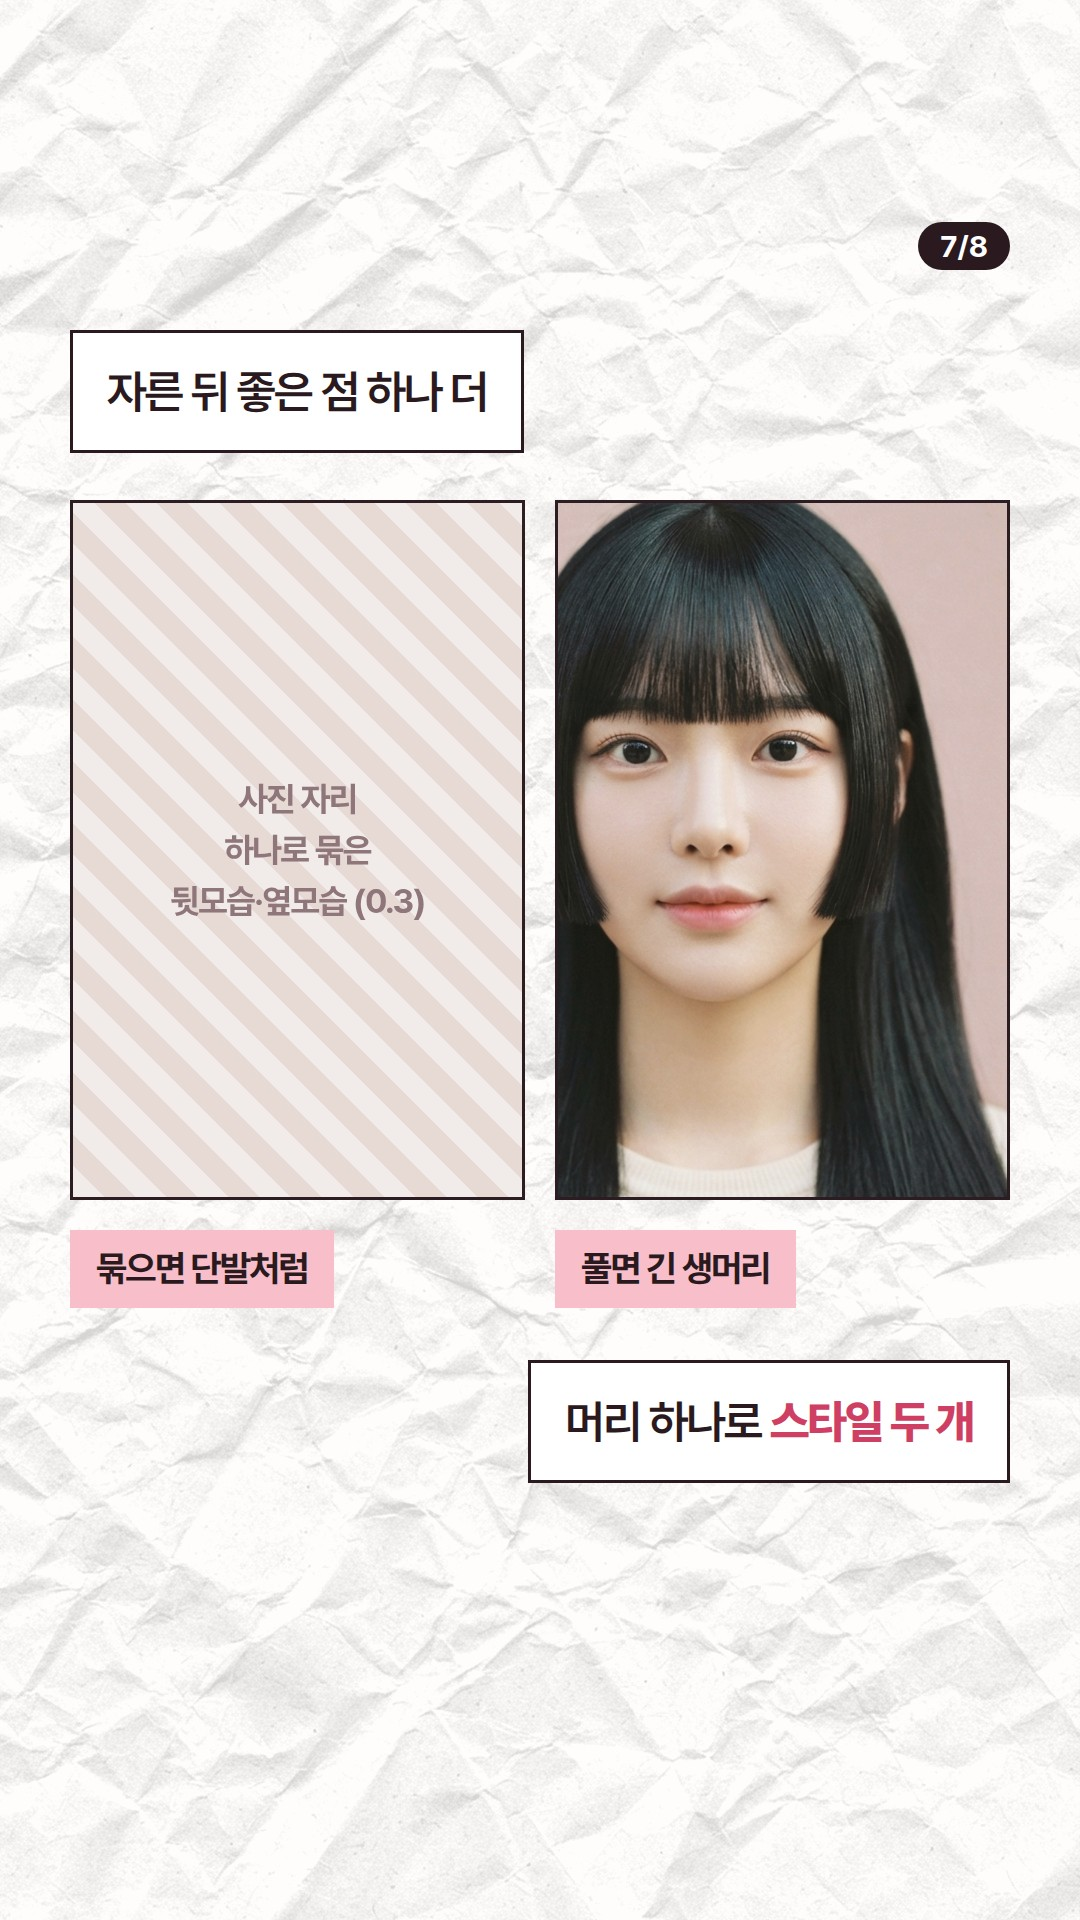
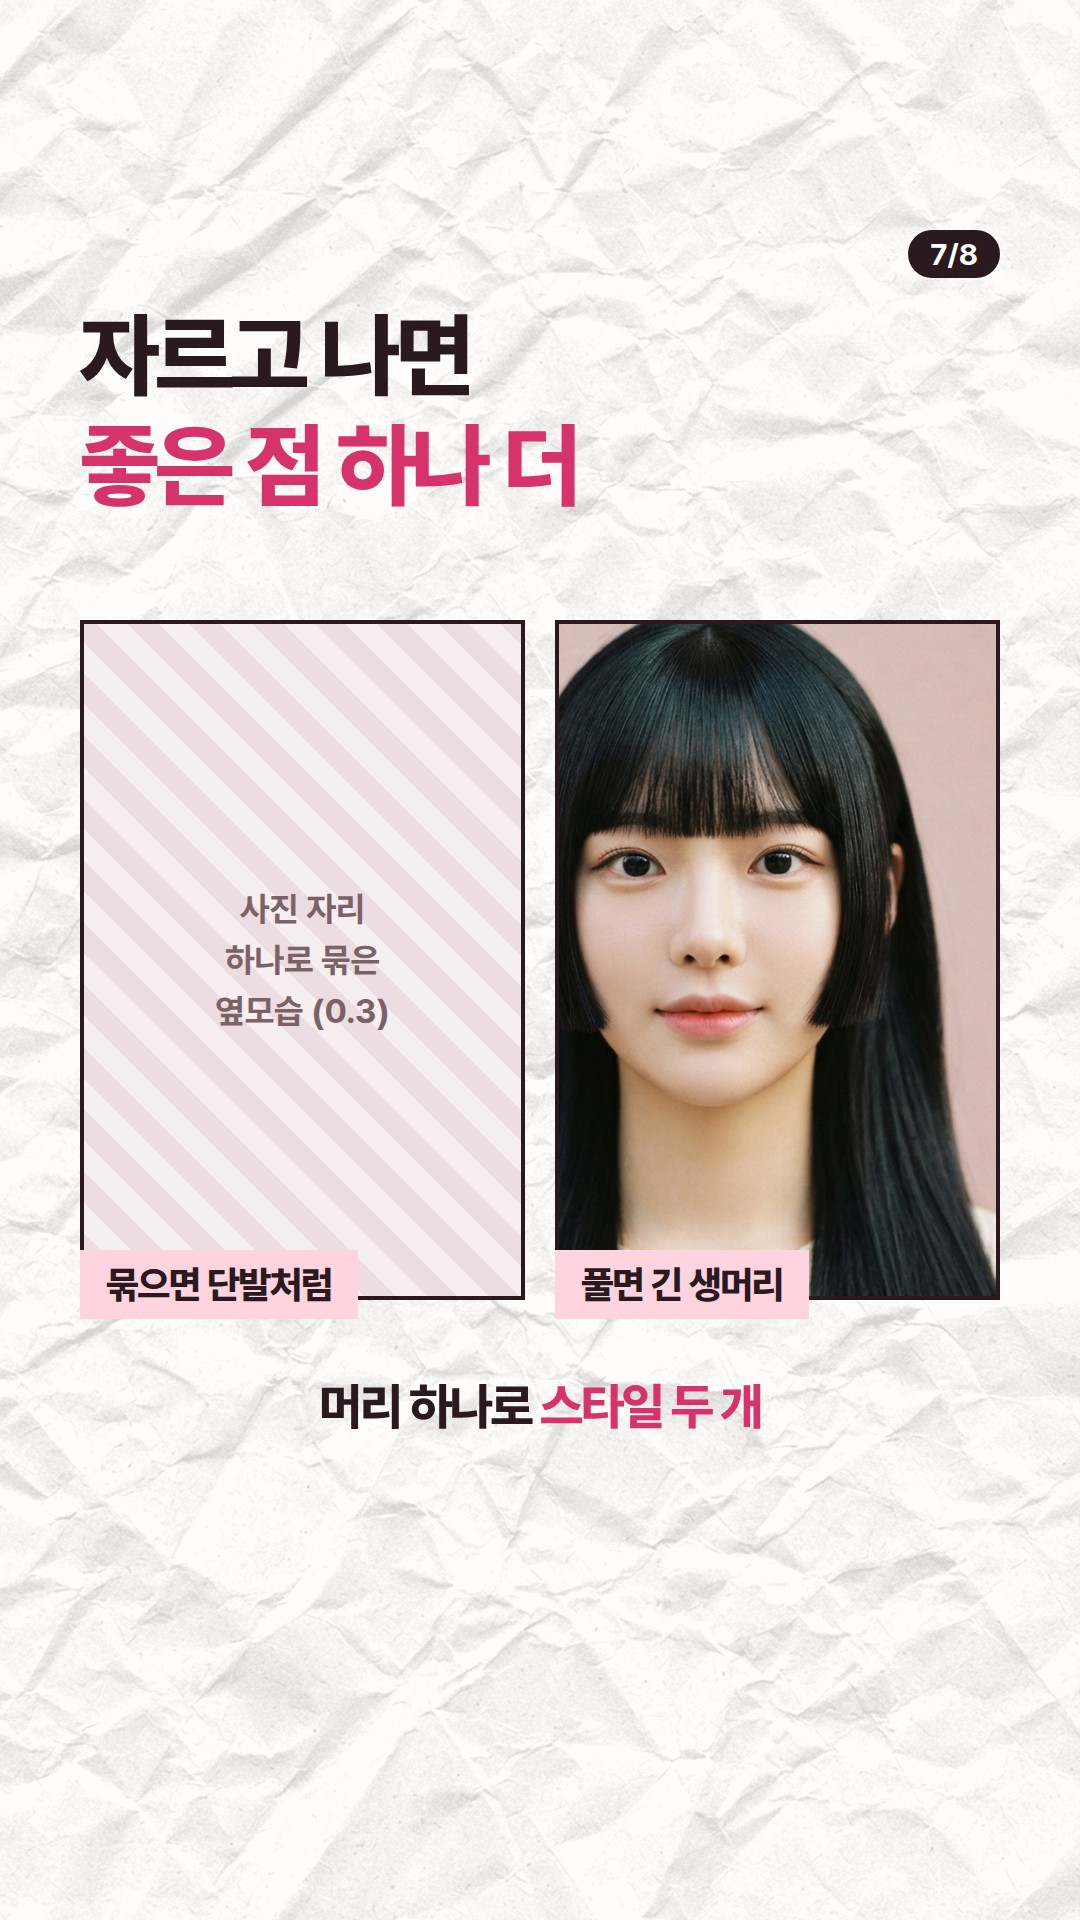
뷰티레터: 종이 스타일 디자인 재정리 — 제목은 박스 없이, 설명만 박스, 고대비 색(흰/플럼·로즈/흰)
Claude-Session: https://claude.ai/code/session_01M29FXMb16fvzM5BCrcufte

Changed region(s): [[0.0611, 0.1562, 0.9472, 0.7812], [0.825, 0.0938, 0.9472, 0.1562]]

diff --git a/design/beauty_news/letters/2026-10-10_am_hime/reel2.html b/design/beauty_news/letters/2026-10-10_am_hime/reel2.html
@@ -17,79 +17,73 @@
 <!-- 2. 정의 -->
 <section class="card pp" data-name="02_what">
   <div class="pg">1/8</div>
-  <div class="wb" style="left:70px; top:330px">아 그전에 먼저!<br/>히메 커트가 뭐냐면</div>
-  <div class="bb" style="left:70px; right:70px; top:560px">
-    <h2>히메 커트 = 3단 구조</h2>
+  <div class="ttl2"><small>아 그전에 먼저!</small>히메 커트가<br/><em>뭐냐면</em></div>
+  <div class="wb" style="left:80px; right:80px; top:660px">
     <ol>
-      <li><i>①</i>눈썹 근처 <em>일자 앞머리</em></li>
-      <li><i>②</i>볼~턱 라인에서 <em>뚝 끊은 옆머리</em></li>
-      <li><i>③</i>나머지는 <em>긴 머리</em> 그대로</li>
+      <li><i>①</i>눈썹 근처 <b>일자 앞머리</b></li>
+      <li><i>②</i>볼~턱에서 <b>뚝 끊은 옆머리</b></li>
+      <li><i>③</i>나머지는 <b>긴 머리</b> 그대로</li>
     </ol>
   </div>
-  <div class="ph todo" style="left:300px; top:1050px; width:480px; height:420px">사진 자리<br/>옆머리 보이는<br/>옆모습 컷 (0.3)</div>
-  <div class="hl" style="left:70px; top:1500px">일본 전통 '공주 머리'에서 유래했어요</div>
+  <div class="ph todo" style="left:80px; right:80px; top:1010px; height:440px">사진 자리 · 옆머리 보이는 옆모습 컷 (0.3)</div>
+  <div class="say" style="top:1490px; font-size:40px">일본 전통 <em>'공주 머리'</em>에서 유래했어요</div>
 </section>
 
 <!-- 3. 왜 지금 -->
 <section class="card pp" data-name="03_why">
   <div class="pg">2/8</div>
-  <div class="wb" style="left:70px; top:360px">근데 왜 갑자기<br/>파리에서 유행이냐면</div>
-  <div class="bb" style="left:70px; right:70px; top:640px">
-    <h2>프랑스 '보그'가<br/>K-팝 대표 헤어로 소개</h2>
-    <p>헝클어진 파리지앵 헤어 다음은<br/><em>반듯한 히메 커트</em>래요</p>
-  </div>
-  <div class="wb" style="right:70px; top:1140px">옆머리가 얼굴 여백을 가려서<br/><b>이목구비가 또렷해 보이거든요</b></div>
-  <div class="note" style="left:70px; top:1440px">*출처: 보그 코리아 (2026.09.17)</div>
+  <div class="ttl2">근데 왜 갑자기<br/><em>파리에서</em> 유행일까?</div>
+  <div class="rb" style="left:80px; right:80px; top:660px"><small>프랑스 '보그'가</small>K-팝 가수들의 <b>대표 헤어</b>로 소개했어요</div>
+  <div class="wb" style="left:80px; right:80px; top:930px">헝클어진 파리지앵 헤어 다음은<br/><b>반듯한 히메 커트</b>래요</div>
+  <div class="say" style="top:1230px">옆머리가 얼굴 여백을 가려서<br/><em>이목구비가 또렷해 보이거든요</em></div>
+  <div class="note" style="top:1470px; text-align:center">*출처: 보그 코리아 (2026.09.17)</div>
 </section>
 
 <!-- 4. 비교 -->
 <section class="card pp" data-name="04_compare">
   <div class="pg">3/8</div>
-  <div class="wb" style="left:70px; top:330px">같은 사람, <b>옆머리만</b> 바꿨어요</div>
-  <div class="ph" style="left:70px; top:500px; width:455px; height:760px; background-image:url(img/reel_before.jpg); background-position:center 30%"></div>
-  <div class="ph" style="left:555px; top:500px; width:455px; height:760px; background-image:url(img/reel_after.jpg); background-position:center 30%"></div>
-  <div class="hl" style="left:70px; top:1290px">옆머리 없음</div>
+  <div class="ttl2">같은 사람,<br/><em>옆머리만</em> 바꿨어요</div>
+  <div class="ph" style="left:80px; top:620px; width:445px; height:720px; background-image:url(img/reel_before.jpg); background-position:center 30%"></div>
+  <div class="ph" style="left:555px; top:620px; width:445px; height:720px; background-image:url(img/reel_after.jpg); background-position:center 30%"></div>
+  <div class="hl" style="left:80px; top:1290px">옆머리 없음</div>
   <div class="hl" style="left:555px; top:1290px">볼~턱에서 싹둑</div>
-  <div class="wb" style="right:70px; top:1400px">얼굴 옆이 정리되면서 <b>갸름해 보여요</b></div>
+  <div class="say" style="top:1410px">얼굴 옆이 정리되면서 <em>갸름해 보여요</em></div>
 </section>
 
 <!-- 5. 어울리는 사람 -->
 <section class="card pp" data-name="05_who">
   <div class="pg">4/8</div>
-  <div class="wb" style="left:70px; top:330px">나한테도 어울릴까?</div>
-  <div class="bb" style="left:70px; right:70px; top:520px">
-    <h2>특히 잘 어울려요</h2>
+  <div class="ttl2">나한테도<br/><em>어울릴까?</em></div>
+  <div class="wb" style="left:80px; right:80px; top:660px">
     <ol>
-      <li><i>✓</i><em>달걀형 · 긴 얼굴</em><br/>옆머리가 길이를 잡아 줘요</li>
-      <li><i>✓</i>생머리 · 살짝 곱슬 모발<br/>단면이 깔끔하게 살아요</li>
+      <li><i>✓</i><b>달걀형 · 긴 얼굴</b><small>옆머리가 길이를 잡아 줘요</small></li>
+      <li><i>✓</i><b>생머리 · 살짝 곱슬</b><small>단면이 깔끔하게 살아요</small></li>
     </ol>
   </div>
-  <div class="wb" style="right:70px; top:1160px">둥근 얼굴 · 각진 턱이라면?<br/><b>옆머리를 턱선보다 살짝 길게!</b></div>
-  <div class="note" style="left:70px; top:1440px">*출처: 보그 코리아 (2026.09.17)</div>
+  <div class="rb" style="left:80px; right:80px; top:1050px"><small>둥근 얼굴 · 각진 턱이라면?</small>옆머리를 <b>턱선보다 살짝 길게!</b></div>
+  <div class="note" style="top:1330px; text-align:center">*출처: 보그 코리아 (2026.09.17)</div>
 </section>
 
 <!-- 6. 미용실 주문법 -->
 <section class="card pp" data-name="06_order">
   <div class="pg">5/8</div>
-  <div class="bb" style="left:70px; right:70px; top:330px">
-    <h2>미용실에선<br/>이렇게 말하세요</h2>
-  </div>
-  <div class="wb" style="left:70px; top:720px">"앞머리는 눈썹 살짝 아래<br/>일자로 잘라 주세요"</div>
-  <div class="wb" style="right:70px; top:930px">"옆머리는 광대~턱 사이에서<br/>일자로 끊어 주세요"</div>
-  <div class="wb" style="left:70px; top:1140px">"뒷머리 길이는 그대로요"</div>
-  <div class="hl" style="left:70px; top:1340px">몇 mm 차이로 균형이 달라져요. 셀프 컷 금지!</div>
+  <div class="ttl2">미용실에선<br/><em>이렇게 말하세요</em></div>
+  <div class="wb" style="left:80px; top:660px">"앞머리는 눈썹 살짝 아래<br/>일자로 잘라 주세요"</div>
+  <div class="wb" style="right:80px; top:900px">"옆머리는 <b>광대~턱 사이</b>에서<br/>일자로 끊어 주세요"</div>
+  <div class="wb" style="left:80px; top:1140px">"뒷머리 길이는 그대로요"</div>
+  <div class="say" style="top:1360px; font-size:42px">몇 mm 차이로 균형이 달라져요<br/><em>셀프 컷은 금지!</em></div>
 </section>
 
 <!-- 7. 손질법 -->
 <section class="card pp" data-name="07_care">
   <div class="pg">6/8</div>
-  <div class="wb" style="left:70px; top:330px">매일 아침 손질은 <b>5분</b>이면 끝</div>
-  <div class="ph todo" style="left:70px; top:500px; width:940px; height:470px">사진 자리<br/>판 고데기로 옆머리만 펴는 손 (0.3)</div>
-  <div class="bb" style="left:70px; right:70px; top:1010px">
-    <ol style="margin:0">
-      <li><i>①</i>둥근 빗으로 <em>빗어 내리며</em> 드라이</li>
-      <li><i>②</i>바쁠 땐 <em>판 고데기로 옆머리만</em></li>
-      <li><i>③</i>끝에 <em>헤어 오일</em> 살짝</li>
+  <div class="ttl2">아침 손질은<br/><em>5분이면 끝</em></div>
+  <div class="ph todo" style="left:80px; right:80px; top:620px; height:440px">사진 자리 · 판 고데기로 옆머리 펴는 손 (0.3)</div>
+  <div class="wb" style="left:80px; right:80px; top:1100px">
+    <ol>
+      <li><i>①</i>둥근 빗으로 <b>빗어 내리며</b> 드라이</li>
+      <li><i>②</i>바쁠 땐 <b>판 고데기로 옆머리만</b></li>
+      <li><i>③</i>끝에 <b>헤어 오일</b> 살짝</li>
     </ol>
   </div>
 </section>
@@ -97,34 +91,31 @@
 <!-- 8. 2-way -->
 <section class="card pp" data-name="08_twoway">
   <div class="pg">7/8</div>
-  <div class="wb" style="left:70px; top:330px">자른 뒤 좋은 점 하나 더</div>
-  <div class="ph todo" style="left:70px; top:500px; width:455px; height:700px">사진 자리<br/>하나로 묶은<br/>뒷모습·옆모습 (0.3)</div>
-  <div class="ph" style="left:555px; top:500px; width:455px; height:700px; background-image:url(img/cover_photo.jpg); background-position:center 25%"></div>
-  <div class="hl" style="left:70px; top:1230px">묶으면 단발처럼</div>
-  <div class="hl" style="left:555px; top:1230px">풀면 긴 생머리</div>
-  <div class="wb" style="right:70px; top:1360px">머리 하나로 <b>스타일 두 개</b></div>
+  <div class="ttl2">자르고 나면<br/><em>좋은 점 하나 더</em></div>
+  <div class="ph todo" style="left:80px; top:620px; width:445px; height:680px">사진 자리<br/>하나로 묶은<br/>옆모습 (0.3)</div>
+  <div class="ph" style="left:555px; top:620px; width:445px; height:680px; background-image:url(img/cover_photo.jpg); background-position:center 25%"></div>
+  <div class="hl" style="left:80px; top:1250px">묶으면 단발처럼</div>
+  <div class="hl" style="left:555px; top:1250px">풀면 긴 생머리</div>
+  <div class="say" style="top:1370px">머리 하나로 <em>스타일 두 개</em></div>
 </section>
 
 <!-- 9. 퍼스널컬러 -->
 <section class="card pp" data-name="09_color">
   <div class="pg">8/8</div>
-  <div class="wb" style="left:70px; top:330px">퍼스널컬러 강사의 한 줄 팁</div>
-  <div class="bb" style="left:70px; right:70px; top:520px">
-    <h2>히메 커트는<br/>어두운 컬러가 예뻐요</h2>
-    <p>단면이 선명해야 반듯해 보이거든요</p>
-    <ol>
-      <li><i>쿨</i><em>블루 블랙 · 내추럴 블랙</em></li>
-      <li><i>웜</i><em>다크 초콜릿 브라운</em></li>
-    </ol>
+  <div class="ttl2"><small>퍼스널컬러 강사의 한 줄 팁</small>히메 커트는<br/><em>어두운 컬러</em>가 예뻐요</div>
+  <div class="rb" style="left:80px; right:80px; top:720px">단면이 선명해야 <b>반듯해 보이거든요</b></div>
+  <div class="wb" style="left:80px; right:80px; top:900px; display:grid; grid-template-columns:1fr 1fr; text-align:center">
+    <div><b>쿨톤</b><div class="chips" style="justify-content:center"><span><i style="background:#141A26"></i>블루 블랙</span><span><i style="background:#1E1C1D"></i>내추럴 블랙</span></div></div>
+    <div><b>웜톤</b><div class="chips" style="justify-content:center"><span><i style="background:#3B2A22"></i>다크 초콜릿</span><span><i style="background:#4A3326"></i>다크 브라운</span></div></div>
   </div>
-  <div class="hl" style="left:70px; top:1260px">마침 올가을은 흑발이 대세래요</div>
-  <div class="note" style="left:70px; top:1360px">*컬러 추천은 퍼스널컬러 일반 원리 예시 · 흑발 트렌드: 얼루어 코리아 (2026.10.15)</div>
+  <div class="say" style="top:1260px; font-size:44px">마침 <em>올가을은 흑발</em>이 대세래요</div>
+  <div class="note" style="top:1360px; text-align:center; font-size:26px">*컬러칩은 퍼스널컬러 일반 원리 예시 · 흑발 트렌드: 얼루어 코리아 (2026.10.15)</div>
 </section>
 
 <!-- 10. 저장 (가운데 정렬) -->
-<section class="card pp center" data-name="10_save">
-  <div class="big" style="top:600px">미용실 갈 때<br/><em>이 영상 보여 주세요</em></div>
-  <div class="wb cx" style="top:1000px">저장해 두면 주문할 때 편해요</div>
-  <div class="bb cx" style="top:1190px; padding:30px 44px"><p style="margin:0; font-size:44px"><em>@from.beautyletter</em> 팔로우</p></div>
+<section class="card pp" data-name="10_save">
+  <div class="big" style="top:640px">미용실 갈 때<br/><em>이 영상</em> 보여 주세요</div>
+  <div class="say" style="top:1010px; font-size:44px">저장해 두면 주문할 때 편해요</div>
+  <div class="follow cx" style="top:1160px">@from.beautyletter 팔로우</div>
 </section>
 </body></html>

diff --git a/design/beauty_news/reel_paper.css b/design/beauty_news/reel_paper.css
@@ -1,9 +1,14 @@
-/* 릴스 '구긴 종이' 스타일: 흰 구긴 종이 + 플럼 테두리 흰 박스 + 플럼 박스에 핑크 글자 + 핑크 형광펜 (브랜드 색: 플럼·로즈·페탈) */
+/* 릴스 '구긴 종이' 스타일
+   - 제목 카피: 박스 없이 종이 위에 큰 글씨 (강조 단어는 로즈)
+   - 설명: 박스 안 (흰 박스+플럼 테두리 / 로즈 박스+흰 글씨)
+   - 짧은 마무리 문장: 박스 없이 가운데 정렬
+   색은 대비가 큰 조합만: 흰 바탕+플럼 글씨, 로즈 바탕+흰 글씨, 연핑크 띠+플럼 글씨 */
 @font-face { font-family: "NanumMyeongjo"; font-weight: 800; src: url(fonts/NanumMyeongjo-ExtraBold.ttf) format("truetype"); }
 :root {
-  --ink: #2A1A20;      /* 플럼: 테두리·진한 박스·본문 */
-  --acc: #F8BFCB;      /* 페탈 핑크: 진한 박스 위 강조, 형광펜 */
-  --rose: #CF3F64;     /* 로즈: 흰 박스 안 강조 */
+  --ink: #2A1A20;      /* 플럼: 글씨·테두리 */
+  --rose: #D6336C;     /* 로즈: 강조 단어, 강조 박스 */
+  --pink: #FFD3DF;     /* 연핑크: 형광펜 띠 */
+  --sub: #7A6268;      /* 출처 등 작은 글씨 */
   --paper: #F7F6F4;
   --g: "Pretendard", "Apple SD Gothic Neo", sans-serif;
   --m: "NanumMyeongjo", serif;
@@ -11,34 +16,39 @@
 html, body { margin: 0; padding: 0; }
 .pp { width: 1080px; height: 1920px; position: relative; overflow: hidden; color: var(--ink);
   background: var(--paper) url(reel_assets/paper_white.jpg) center / cover no-repeat; font-family: var(--g); }
-.pp em { font-style: normal; }
+.pp em { font-style: normal; color: var(--rose); }
 
-/* 흰 박스 (말풍선처럼 지그재그로 배치) */
-.pp .wb { position: absolute; background: #fff; border: 3px solid var(--ink); padding: 26px 34px; font-size: 46px; font-weight: 600; line-height: 1.42; letter-spacing: -0.05em; }
+/* 제목 카피 (박스 없음) */
+.pp .ttl2 { position: absolute; left: 80px; right: 80px; top: 300px; font-size: 92px; font-weight: 800; line-height: 1.2; letter-spacing: -0.05em; }
+.pp .ttl2 small { display: block; font-size: 40px; font-weight: 700; color: var(--sub); letter-spacing: -0.03em; margin-bottom: 18px; }
+
+/* 설명 박스 */
+.pp .wb { position: absolute; background: #fff; border: 4px solid var(--ink); padding: 34px 40px; font-size: 44px; font-weight: 600; line-height: 1.5; letter-spacing: -0.04em; }
 .pp .wb b { font-weight: 800; color: var(--rose); }
-/* 플럼 박스 + 핑크 글자 */
-.pp .bb { position: absolute; background: var(--ink); color: #fff; padding: 46px 50px; letter-spacing: -0.05em; }
-.pp .bb h2 { font-family: var(--m); font-weight: 800; font-size: 76px; line-height: 1.22; color: var(--acc); letter-spacing: -0.06em; }
-.pp .bb p { font-size: 42px; font-weight: 600; line-height: 1.5; margin-top: 22px; color: #fff; }
-.pp .bb p em, .pp .bb li em { color: var(--acc); }
-.pp .bb ol { list-style: none; margin: 26px 0 0; padding: 0; }
-.pp .bb li { font-size: 44px; font-weight: 600; line-height: 1.45; margin-top: 18px; color: #fff; }
-.pp .bb li i { font-style: normal; display: inline-block; width: 58px; color: var(--acc); font-family: var(--m); }
-/* 핑크 형광펜 띠 */
-.pp .hl { position: absolute; background: var(--acc); color: var(--ink); padding: 14px 26px; font-size: 36px; font-weight: 700; letter-spacing: -0.05em; line-height: 1.4; }
-.pp .note { position: absolute; font-size: 30px; font-weight: 600; letter-spacing: -0.04em; color: #8B6E75; }
-/* 사진: 플럼 테두리 + 살짝 필름 느낌 */
-.pp .ph { position: absolute; border: 3px solid var(--ink); background: #ccc center / cover no-repeat; filter: saturate(.92) contrast(.97); }
-.pp .ph::after { content: ""; position: absolute; inset: 0; background: rgba(255,240,220,.06); }
-.pp .ph.todo { background: repeating-linear-gradient(45deg, #F5EEEE 0 22px, #EADBD5 22px 44px); display: flex; align-items: center; justify-content: center; text-align: center; font-size: 34px; font-weight: 700; color: #8B6E75; letter-spacing: -0.04em; line-height: 1.5; }
-/* 표지 큰 제목 */
-.pp .big { position: absolute; left: 70px; right: 70px; font-family: var(--m); font-weight: 800; font-size: 118px; line-height: 1.12; letter-spacing: -0.07em; }
-.pp .big em { background: linear-gradient(transparent 55%, var(--acc) 55%); }
-.pp .mark { position: absolute; top: 230px; left: 70px; font-family: "Cormorant", serif; font-size: 34px; letter-spacing: 6px; font-weight: 600; }
-.pp .mark i { letter-spacing: 1px; }
-.pp .pg { position: absolute; top: 222px; right: 70px; font-size: 30px; font-weight: 700; background: var(--ink); color: #fff; border-radius: 999px; padding: 6px 22px; }
-.pp .chk { display: inline-block; width: 46px; color: var(--ink); }
+.pp .wb ol { list-style: none; margin: 0; padding: 0; }
+.pp .wb li + li { margin-top: 16px; }
+.pp .wb li i { font-style: normal; display: inline-block; width: 64px; font-weight: 800; color: var(--rose); }
+.pp .wb li small { display: block; padding-left: 64px; font-size: 36px; font-weight: 500; color: var(--sub); }
+.pp .rb { position: absolute; background: var(--rose); color: #fff; padding: 34px 40px; font-size: 46px; font-weight: 700; line-height: 1.45; letter-spacing: -0.04em; }
+.pp .rb b { font-weight: 800; }
+.pp .rb small { display: block; font-size: 36px; font-weight: 600; opacity: .9; margin-bottom: 8px; }
 
-/* 가운데 정렬 장 */
-.pp.center .big { text-align: center; }
-.pp.center .cx { left: 50% !important; transform: translateX(-50%); white-space: nowrap; text-align: center; }
+/* 형광펜 띠 · 가운데 문장 · 출처 */
+.pp .hl { position: absolute; background: var(--pink); color: var(--ink); padding: 12px 26px; font-size: 38px; font-weight: 800; letter-spacing: -0.04em; }
+.pp .say { position: absolute; left: 60px; right: 60px; text-align: center; font-size: 50px; font-weight: 800; line-height: 1.45; letter-spacing: -0.05em; }
+.pp .note { position: absolute; left: 80px; right: 80px; font-size: 30px; font-weight: 600; letter-spacing: -0.03em; color: var(--sub); }
+
+/* 사진 */
+.pp .ph { position: absolute; border: 4px solid var(--ink); background: #ccc center / cover no-repeat; }
+.pp .ph.todo { background: repeating-linear-gradient(45deg, #F6EEF0 0 22px, #EBDDE1 22px 44px); display: flex; align-items: center; justify-content: center; text-align: center; font-size: 34px; font-weight: 700; color: var(--sub); line-height: 1.5; }
+
+/* 컬러칩 */
+.pp .chips { display: flex; gap: 26px; margin-top: 18px; }
+.pp .chips span { display: flex; flex-direction: column; align-items: center; gap: 10px; font-size: 32px; font-weight: 700; }
+.pp .chips span i { width: 120px; height: 120px; border-radius: 50%; border: 4px solid var(--ink); }
+
+/* 페이지 번호 · 마지막 장 */
+.pp .pg { position: absolute; top: 230px; right: 80px; font-size: 30px; font-weight: 700; background: var(--ink); color: #fff; border-radius: 999px; padding: 6px 22px; }
+.pp .big { position: absolute; left: 60px; right: 60px; text-align: center; font-family: var(--m); font-weight: 800; font-size: 112px; line-height: 1.15; letter-spacing: -0.07em; }
+.pp .cx { left: 50% !important; transform: translateX(-50%); white-space: nowrap; }
+.pp .follow { position: absolute; background: var(--ink); color: #fff; padding: 26px 48px; font-size: 44px; font-weight: 700; border-radius: 999px; }
